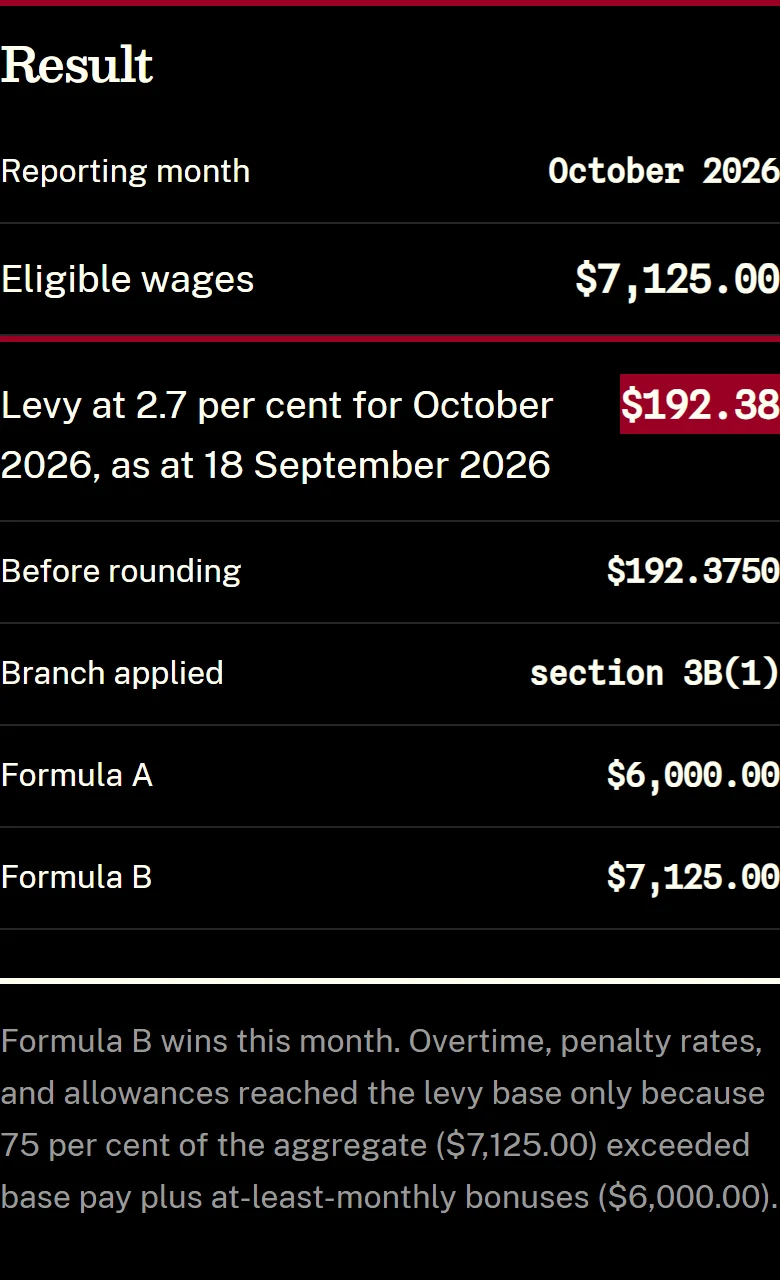
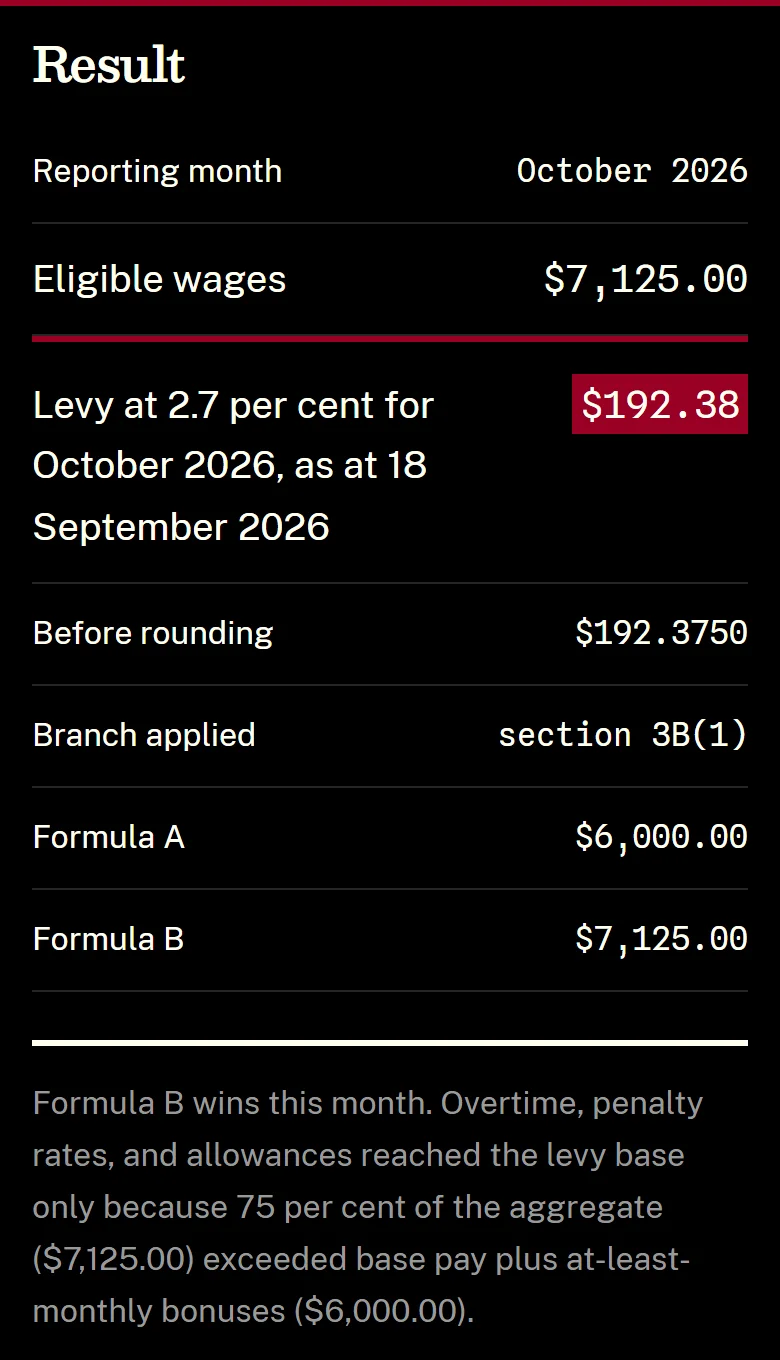
Fix clipping across the site (#362)
## Summary

Fixes every clipped or overlapped element found in a site-wide audit,
including the two reported cases: a wrapped title's hover fill covering
the line above, and the Coal LSL result images cutting off the last
character of each figure.

| Defect | Fix |
| --- | --- |
| Hover fill of each line of a wrapped heading link painted over the
line above (1.08 leading) | `:is(h1, h2, h3, h4, h5, h6) > a { display:
inline-flex }`; every heading link is its heading's whole text, and
phones already used inline-flex for 44px targets |
| Copy covered the first line of code | `.copy-wrap` is a grid: code
spans the row, Copy sits below it beside the status line; section
spacing restored above and below |
| Captions inside scroll regions cut off on phones | Scroll regions are
`container-type: inline-size`; captions take `max-width: 100cqi` |
| Header nav focus rings clipped where the nav scrolls (56rem and below)
| 6px padding with a matching negative margin; links do not move |
| Machine view focus ring drawn off screen | Inset outline |
| Printed code cut at the page edge | Print `pre` wraps; Copy and its
status are hidden in print; the ASCII portrait keeps its rows |
| Weekly cash inputs cut "12345.67" at 320px | Below 24rem, less cell
and field padding, with a 1px ring offset so the ring still fits |
| Proof images cropped flush against the figures | Capture applies a
16px inline inset and fails if a figure ends within 8px of the edge;
[…]

diff --git a/assets/site.css b/assets/site.css
@@ -91,6 +91,13 @@ h3 {
   text-wrap: balance;
 }
 
+/* Every heading link is its heading's whole text. As one box its hover fill
+   and focus ring cover all its lines once; drawn line by line at the tight
+   heading leading, each fill painted over the line above. */
+:is(h1, h2, h3, h4, h5, h6) > a {
+  display: inline-flex;
+}
+
 h1 {
   max-width: 19ch;
   font-size: var(--text-heading);
@@ -641,6 +648,7 @@ main p {
 .article-body section > table,
 .article-body section > .table-scroll,
 .article-body section > pre,
+.article-body section > .copy-wrap,
 .article-body section > blockquote {
   margin-top: var(--space-5);
 }
@@ -689,6 +697,8 @@ blockquote,
   margin-top: var(--space-4);
 }
 
+/* Each scroll region is a size container, so its caption can wrap to the
+   visible width instead of running the full width of a wide table. */
 .table-scroll,
 .employee-table-scroll {
   position: relative;
@@ -696,6 +706,11 @@ blockquote,
   overflow-x: auto;
   overscroll-behavior-inline: contain;
   border-top: var(--rule-strong) solid var(--colour-ink);
+  container-type: inline-size;
+}
+
+:is(.table-scroll, .employee-table-scroll) caption {
+  max-width: 100cqi;
 }
 
 table {
@@ -1233,18 +1248,27 @@ caption {
   gap: var(--space-3);
 }
 
+/* Copy sits under its block, beside the status line, so a long line of code
+   never runs beneath the button. */
 .copy-wrap {
-  position: relative;
+  display: grid;
+  grid-template-columns: minmax(0, 1fr) auto;
+  column-gap: var(--space-3);
+  align-items: center;
 }
 
 .copy-wrap pre {
-  padding-right: calc(var(--space-5) + 4.5rem);
+  grid-column: 1 / -1;
+}
+
+.copy-wrap + p {
+  margin-top: var(--space-4);
 }
 
 .copy-button {
-  position: absolute;
-  top: var(--space-2);
-  right: var(--space-2);
+  grid-row: 2;
+  grid-column: 2;
+  margin-top: var(--space-2);
   min-width: 2.75rem;
   min-height: 2.75rem;
   padding: var(--space-1) var(--space-3);
@@ -1259,6 +1283,8 @@ caption {
 }
 
 .copy-status {
+  grid-row: 2;
+  grid-column: 1;
   min-height: 1.5em;
   margin: var(--space-2) 0 0;
   color: var(--colour-ink-soft);
@@ -2357,7 +2383,9 @@ input[type="checkbox"] {
   border-top: var(--rule-strong) solid var(--colour-stamp);
 }
 
+/* The fill keeps a little room either side of the figure it highlights. */
 .result-row[data-result-kind="levy"] strong {
+  padding-inline: var(--space-1);
   color: var(--colour-ink);
   background: var(--colour-stamp);
 }
@@ -2533,9 +2561,14 @@ input[type="checkbox"] {
   }
 
   /* Touch tablets get the same 44px link targets as phones; the taller links
-     replace the nav's bottom padding, so the header keeps its 7rem. */
+     replace the nav's bottom padding, so the header keeps its 7rem. The nav
+     scrolls sideways when text is enlarged, which also clips anything outside
+     its box, so it keeps room for a link's 3px focus ring at its 3px offset;
+     the matching negative margin leaves the links where they were. */
   .site-nav {
-    max-width: 100%;
+    max-width: calc(100% + 0.75rem);
+    margin: -0.375rem;
+    padding: 0.375rem;
     overflow-x: auto;
   }
 
@@ -2650,7 +2683,6 @@ input[type="checkbox"] {
     justify-content: space-between;
     gap: 0 var(--space-2);
     overflow-x: auto;
-    padding-bottom: 0;
     font-size: 0.875rem;
     letter-spacing: 0;
   }
@@ -2905,9 +2937,12 @@ input[type="checkbox"] {
     background: var(--colour-print-paper);
   }
 
-  /* The portrait's light ink would vanish on paper; print it in dark characters. */
+  /* The portrait's light ink would vanish on paper; print it in dark
+     characters. Its rows are sized to fit, so they keep their own lines
+     where other printed code wraps. */
   .about-portrait pre {
     color: var(--colour-print-ink);
+    white-space: pre;
   }
 
   .skip-link,
@@ -3002,6 +3037,19 @@ input[type="checkbox"] {
   .rate-table--wide,
   .tool-table--wide {
     min-width: 0;
+  }
+
+  /* Paper cannot scroll, so code wraps to the page, and the Copy control
+     has nothing to do there. */
+  pre {
+    overflow: visible;
+    white-space: pre-wrap;
+    overflow-wrap: anywhere;
+  }
+
+  .copy-button,
+  .copy-status {
+    display: none;
   }
 }
 
@@ -3146,6 +3194,12 @@ html[data-view-mode="machine"] body {
   color: var(--colour-machine-ink);
   background: var(--colour-machine-canvas);
   font: 13px / 1.7 var(--font-mono);
+}
+
+/* The view fills the window, so its focus ring is drawn inside the edge
+   rather than off screen. */
+.machine-view:focus-visible {
+  outline-offset: -0.1875rem;
 }
 
 .machine-view__inner {

diff --git a/changelog/index.html b/changelog/index.html
@@ -67,6 +67,7 @@
                 <tr><th scope="col">Date</th><th scope="col">Change</th></tr>
               </thead>
               <tbody>
+                <tr><th scope="row">7 October 2026</th><td>A wrapped title link no longer covers part of the line above when hovered, and Copy buttons sit below their code instead of over it. Table captions wrap to a phone screen, header links keep their whole focus outline, printed code wraps to the page, the cash forecast shows six-figure weekly amounts on the narrowest phones and the Coal LSL result images no longer crop their figures.</td></tr>
                 <tr><th scope="row">7 October 2026</th><td>When a business calculator flags a field, the field beside it stays where it was, and the message takes its own line below that row.</td></tr>
                 <tr><th scope="row">5 October 2026</th><td>Wrapped tool and rate titles keep their underline clear of the next line, and on phones the changelog dates wrap so each change has room. Contact and Evaluations keep the usual gap below the page header, and figures in the cash flow comparison tables line up on the right.</td></tr>
                 <tr><th scope="row">5 October 2026</th><td>Australian Accounting Skills v0.3.1 is the recommended skills release: the Adopt route, the subcontract ledger page, the agent skills manifest and llms.txt move from the 63 workflows of v0.3.0 to the 65 of v0.3.1, which adds client acceptance and working holiday maker workflows. Of its 76 validation cards, 72 have confirmed results from a whole-card model run.</td></tr>

diff --git a/index.html b/index.html
@@ -132,7 +132,7 @@
           <summary>View the fixed calculator example</summary>
           <figure>
             <picture>
-              <source media="(max-width: 40rem)" srcset="/assets/coal-lsl-calculator-mobile.webp" width="780" height="1280" />
+              <source media="(max-width: 40rem)" srcset="/assets/coal-lsl-calculator-mobile.webp" width="780" height="1360" />
               <img src="/assets/coal-lsl-calculator.webp" width="868" height="580" loading="lazy" decoding="async" alt="Coal LSL calculator result showing Formula B, eligible wages, levy and the applied section 3B branch for a synthetic example" />
             </picture>
             <figcaption>Default synthetic example: $6,000 base pay, $3,000 overtime and penalty, $500 allowances. This screenshot stays fixed when you edit the figures above.</figcaption>

diff --git a/assets/accounting-pages.css b/assets/accounting-pages.css
@@ -332,6 +332,24 @@
   white-space: nowrap;
 }
 
+/* On the narrowest phones the weekly inputs take back some cell and field
+   padding, so a six-figure amount with cents shows in full. The focus ring
+   moves in to match, so the 4px cell padding still holds all of it at the
+   edge of the scroll region. */
+@media (max-width: 24rem) {
+  .cash-scroll table:not(#cash-results) :is(th, td) {
+    padding-inline: var(--space-1);
+  }
+
+  .cash-scroll table:not(#cash-results) input {
+    padding-inline: var(--space-2);
+  }
+
+  .cash-scroll table:not(#cash-results) input:focus-visible {
+    outline-offset: 0.0625rem;
+  }
+}
+
 .accounting-page [hidden] {
   display: none;
 }

diff --git a/_layouts/calculator.html b/_layouts/calculator.html
@@ -41,7 +41,7 @@
   <link rel="stylesheet" href="/assets/tokens.css?v={{ site.asset_version }}" />
   <link rel="stylesheet" href="/assets/site.css?v={{ site.asset_version }}" />
 
-  <link rel="stylesheet" href="/assets/accounting-pages.css?v=20261007a" />
+  <link rel="stylesheet" href="/assets/accounting-pages.css?v=20261007b" />
   <script type="module" src="/assets/accounting-pages.mjs"></script>
 </head>
 <body>

diff --git a/_layouts/question-topic.html b/_layouts/question-topic.html
@@ -39,7 +39,7 @@
   <link rel="stylesheet" href="/assets/tokens.css?v={{ site.asset_version }}" />
   <link rel="stylesheet" href="/assets/site.css?v={{ site.asset_version }}" />
 
-  <link rel="stylesheet" href="/assets/accounting-pages.css?v=20261007a" />
+  <link rel="stylesheet" href="/assets/accounting-pages.css?v=20261007b" />
   <script type="module" src="/assets/accounting-pages.mjs"></script>
 </head>
 <body>

diff --git a/tools/accounting-questions/index.html b/tools/accounting-questions/index.html
@@ -41,7 +41,7 @@
   <link rel="stylesheet" href="/assets/tokens.css?v={{ site.asset_version }}" />
   <link rel="stylesheet" href="/assets/site.css?v={{ site.asset_version }}" />
 
-  <link rel="stylesheet" href="/assets/accounting-pages.css?v=20261007a" />
+  <link rel="stylesheet" href="/assets/accounting-pages.css?v=20261007b" />
   <script type="module" src="/assets/hub-routes.mjs"></script>
 </head>
 <body>

diff --git a/tools/business-calculators/index.html b/tools/business-calculators/index.html
@@ -41,7 +41,7 @@
   <link rel="stylesheet" href="/assets/tokens.css?v={{ site.asset_version }}" />
   <link rel="stylesheet" href="/assets/site.css?v={{ site.asset_version }}" />
 
-  <link rel="stylesheet" href="/assets/accounting-pages.css?v=20261007a" />
+  <link rel="stylesheet" href="/assets/accounting-pages.css?v=20261007b" />
   <script type="module" src="/assets/hub-routes.mjs"></script>
 </head>
 <body>

diff --git a/scripts/check_design.py b/scripts/check_design.py
@@ -34,7 +34,7 @@ LAMBDA_MARKUP = '<span class="function-symbol">λ</span>'
 RAW_COLOUR_PATTERN = re.compile(r"#[0-9a-f]{3,8}\b", re.I)
 # The calculator and question pages add a third stylesheet with the same key, so a
 # stylesheet change reaches returning visitors instead of waiting out the CSS cache.
-ACCOUNTING_LINK = '<link rel="stylesheet" href="/assets/accounting-pages.css?v=20261007a" />'
+ACCOUNTING_LINK = '<link rel="stylesheet" href="/assets/accounting-pages.css?v=20261007b" />'
 # Keep the site's chosen 48px and 96px rasters on every page. Google requires
 # a square icon of at least 8px and recommends a size larger than 48px.
 GOOGLE_FAVICON_LINKS = (

diff --git a/DESIGN.md b/DESIGN.md
@@ -16,6 +16,22 @@ The canonical routes, the dark-only token palette and the rate main text are fro
 
 ## Current refinement record
 
+On 7 October 2026 a clipping pass checked all 55 pages and the 404 page at
+widths from 320 to 1920px in Chromium, Firefox and WebKit, with 32px browser
+text, in the Machine view, with calculator results showing and in print.
+Each heading link is one inline-flex box at every width, so its hover fill
+and focus ring cover its lines once; drawn line by line at the 1.08 leading,
+each fill had painted over the line above. Copy sits below its code block,
+beside the status line, instead of over the first line. Each scroll region
+is an inline-size container, so its caption wraps to the visible width. The
+header nav, which scrolls sideways below 56rem, keeps 6px of room for a
+link's focus ring, balanced by a negative margin. The Machine view draws its
+focus ring inside the window, and printed code wraps to the page. Below 24rem
+the cash forecast's weekly inputs take back some cell and field padding, with
+a 1px ring offset there, so a six-figure amount with cents shows in full. The
+Coal LSL proof images keep a 16px side inset, and the mobile image grows to
+780 by 1360 to hold it.
+
 On 7 October 2026 calculator input grids pack densely, so an inline error,
 which spans its row under the failed field, no longer pushes the field beside
 it onto a new row. The same day settled the homepage chart's contrast: its
@@ -407,7 +423,7 @@ The 31 August 2026 refinement keeps the design read at
   example, which is labelled as a fixed screenshot in a native disclosure.
 - The current Coal LSL proof is a deterministic, fabricated Formula B
   result-only screenshot. `npm run capture:coal-lsl-proof` generates both the
-  868 by 580 desktop image and the 780 by 1192 mobile image from the same
+  868 by 580 desktop image and the 780 by 1360 mobile image from the same
   fixture, with an 80 KB limit for each WebP.
 - Calculator orientation uses one concise task sentence followed by a compact
   rate, method and boundary register. Its output is a label and value result
